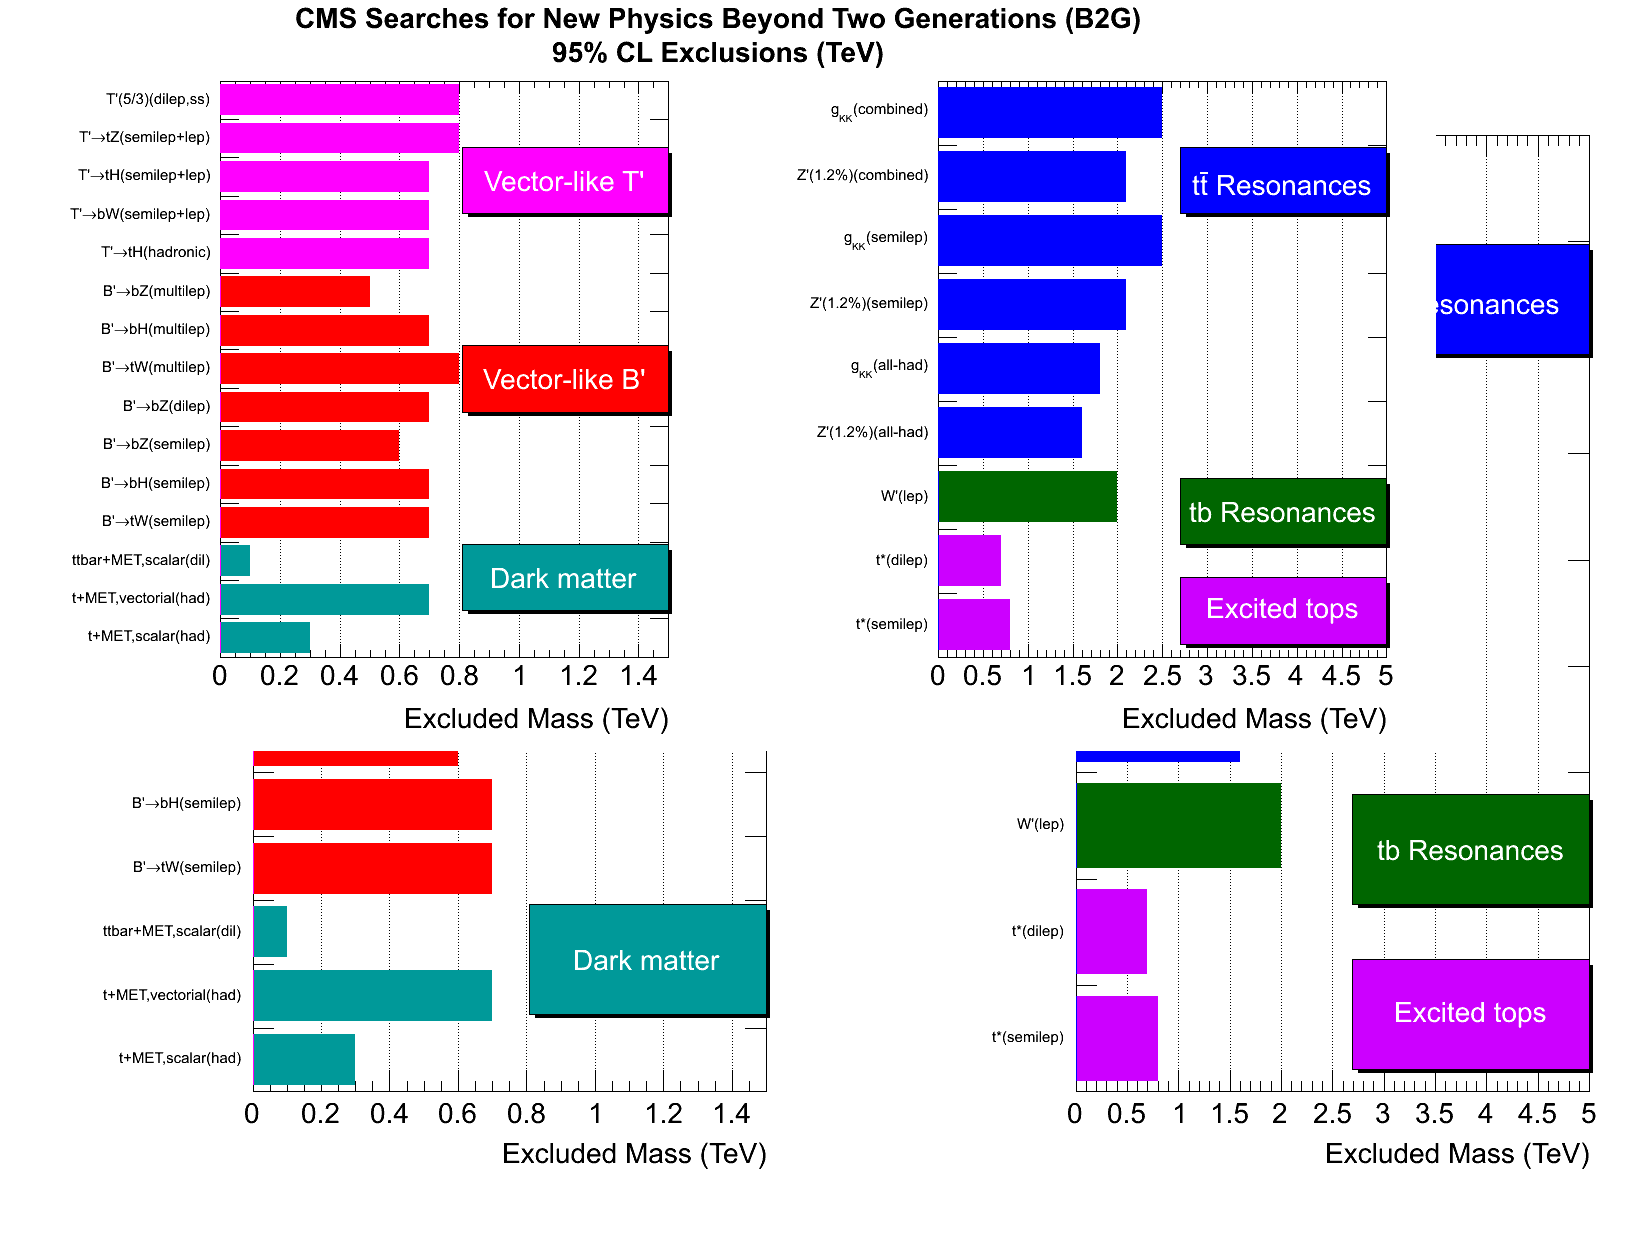
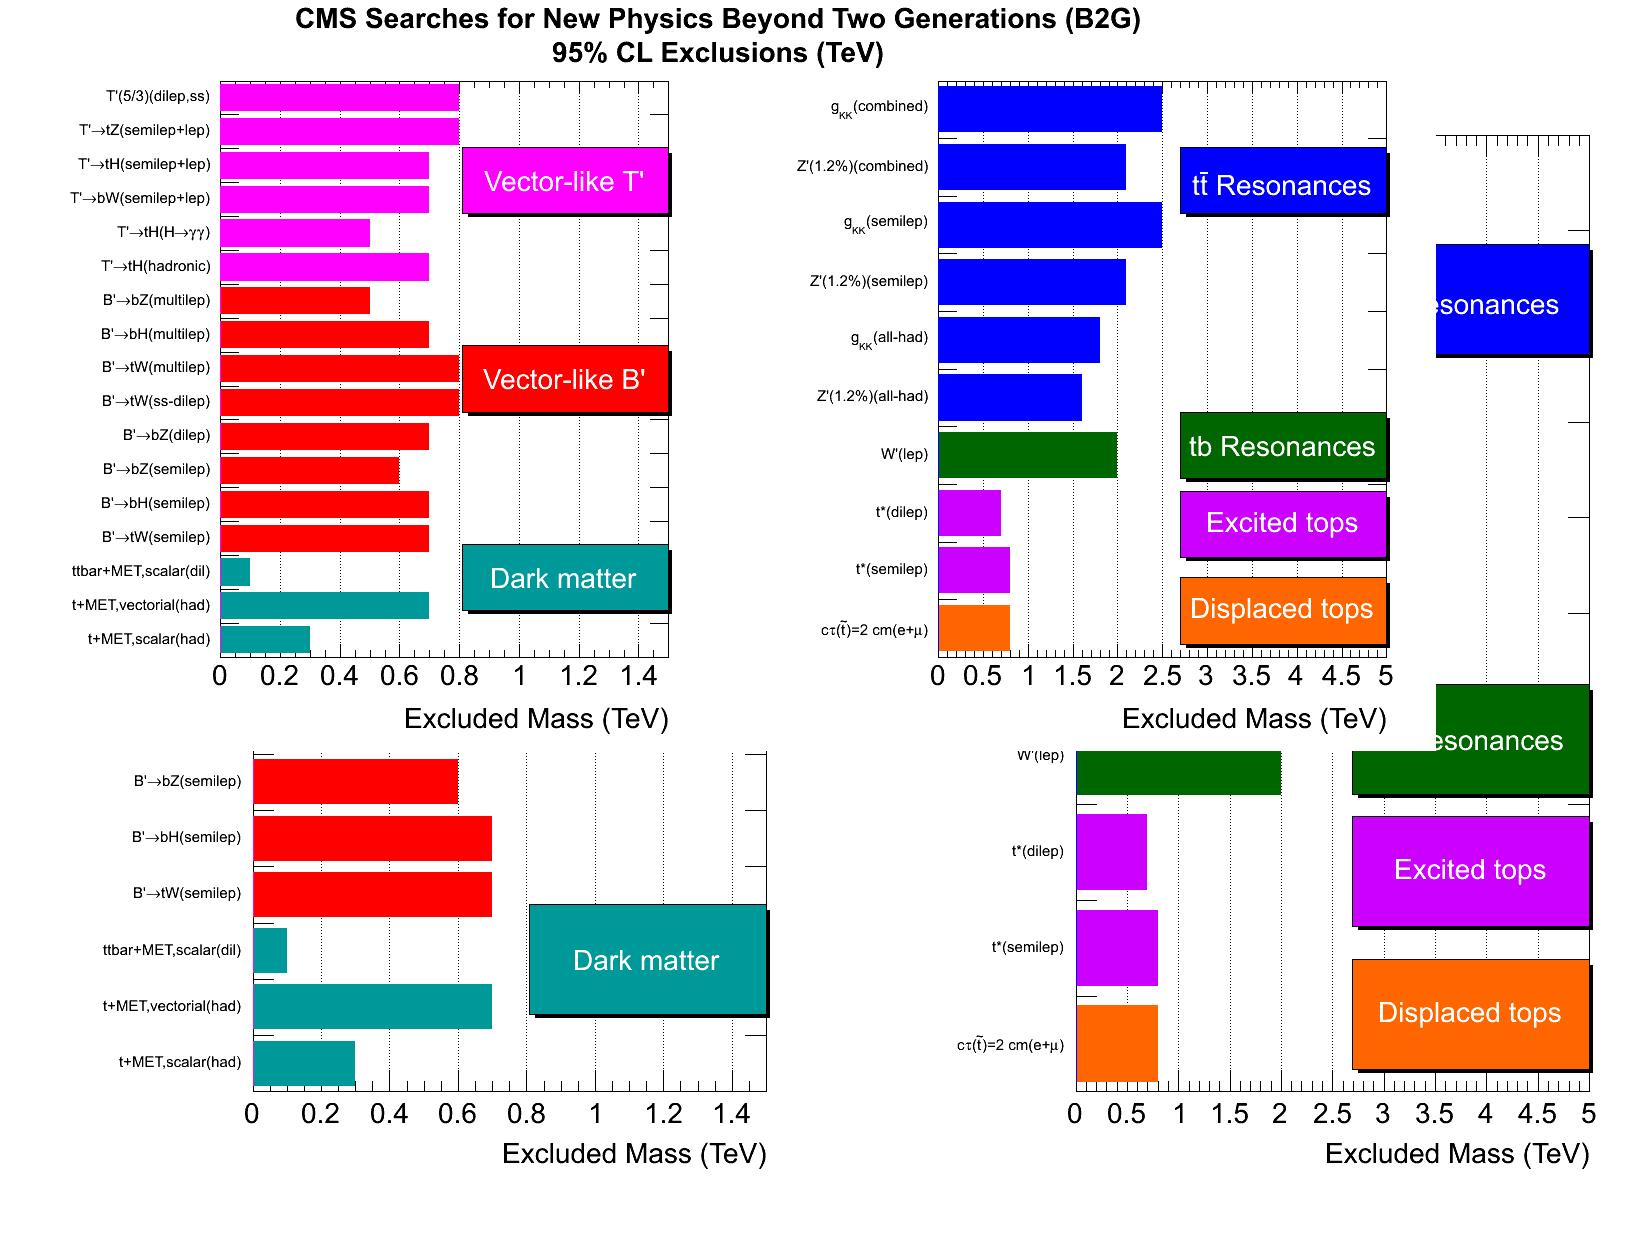
Adding 12-024, 12-020 and 14-003

diff --git a/fullmacro.py b/fullmacro.py
@@ -49,7 +49,8 @@ styles = {"T'":[TColor.kMagenta, "Vector-like T'",      0],
           "DM":[TColor.kCyan+2,  "Dark matter",         0],
           "Z'":[TColor.kBlue,    "t#bar{t} Resonances", 1],
           "W'":[TColor.kGreen+3, "tb Resonances",       1],
-          "t*":[TColor.kViolet,  "Excited tops",        1]
+          "t*":[TColor.kViolet,  "Excited tops",        1],
+          "LLt":[TColor.kOrange+7, "Displaced tops",      1],
 }
 
 ##############################################################################################
@@ -60,8 +61,9 @@ texts = {
     "T'":[0.65, 0.8, 0.95, 0.9],
     "DM":[0.65, 0.2, 0.95, 0.3],
     "Z'":[0.65,0.8, 0.95, 0.9],
-    "t*":[0.65, 0.15, 0.95, 0.25],
-    "W'":[0.65, 0.3, 0.95, 0.4],
+    "t*":[0.65, 0.28, 0.95, 0.38],
+    "W'":[0.65, 0.4, 0.95, 0.5],
+    "LLt":[0.65, 0.15, 0.95, 0.25]
     }
 
 
@@ -75,7 +77,7 @@ masters = dict()
 for line in lines :
     if line[0] == '#' :
         continue
-    toks = line.split()
+    toks = line.split("\t")
     if not masters.has_key( toks[0] ) :
         masters[toks[0]] = []
     #    limit           COM            ana name  color               class of ana        left(0) or right(1)
@@ -106,7 +108,7 @@ histstodraw[1].SetMaximum(options.maxval1)
 labels = [ ]
 plotbins = [ 0, 0 ]  # Current bin for each plot
 canvs = []  # Canvases for the various categories
-for key  in [ "DM", "B'", "T'", "t*", "W'", "Z'"] :
+for key  in [ "DM", "B'", "T'",  "LLt", "t*", "W'", "Z'"] :
     value = masters[key]
     print 'key =  ' + str (key)
     print 'value = '
@@ -187,7 +189,7 @@ for ihist in range(len(histstodraw)) :
     hist.Draw('axis hbar')
 
 # Now draw all of the different categories
-for key in [ "DM", "B'", "T'", "t*", "W'", "Z'"]  :
+for key in [ "DM", "B'", "T'", "LLt", "t*", "W'", "Z'"]  :
     val = hists[key]
     side = val[0]
     hist = val[1]
@@ -201,7 +203,7 @@ for key in [ "DM", "B'", "T'", "t*", "W'", "Z'"]  :
 
 # Finall draw the labels
 paves = []
-for key in [ "DM", "B'", "T'", "t*", "W'", "Z'"] :
+for key in [ "DM", "B'", "T'", "LLt", "t*", "W'", "Z'"] :
     vals = texts[key]
     style = styles[key]
     c.cd(style[2] + 1)
